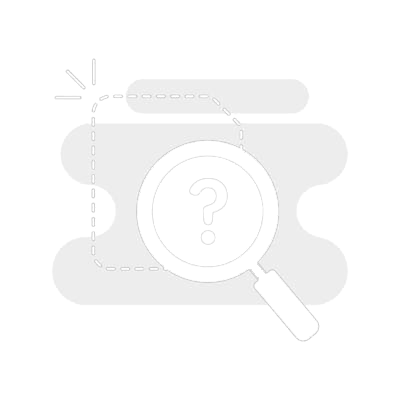
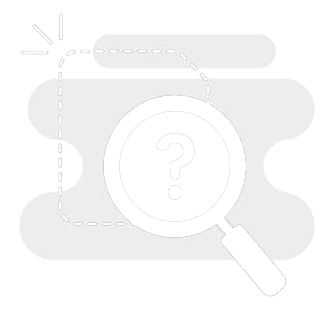
Placeholder image size adjusted

diff --git a/lib/pages/home_page.dart b/lib/pages/home_page.dart
@@ -31,17 +31,15 @@ class _HomePageState extends State<HomePage> {
     return (numberOfCompletedTodos / todos.length);
   }
 
-
-  _getImageLink(String category){
-    if(category == "Design"){
+  _getImageLink(String category) {
+    if (category == "Design") {
       return "assets/design.png";
-    }else if(category == "Development"){
+    } else if (category == "Development") {
       return "assets/development.png";
-    }else{
+    } else {
       return "assets/research.png";
     }
   }
-
 
   @override
   Widget build(BuildContext context) {
@@ -93,49 +91,57 @@ class _HomePageState extends State<HomePage> {
                 ),
                 SizedBox(height: 10),
                 Expanded(
-                  child: todos.length == 0 ? Column(
-                    children: [
-                      Image.asset("assets/placeholder.png" ,color: greyColor.withOpacity(0.3)),
-                      Text("No Task found",
-                      style: TextStyle(fontSize: 25, color: greyColor),
-                      )
-                    ],
-                  ) : ListView.builder(
-                      itemCount: todos.length,
-                      itemBuilder: (context, index) {
-                        return Padding(
-                          padding: EdgeInsets.symmetric(
-                              horizontal: screenWidth * 0.05, vertical: 16),
-                          child: TodoCard(
-                            title: todos[index].title,
-                            endTime: todos[index].endTime,
-                            isCompleted: todos[index].isCompleted,
-                            startTime: todos[index].startTime,
-                            imagePath: _getImageLink(todos[index].category),
-                            onTap: () async {
-                              final Todo todo = await Navigator.of(context)
-                                  .push(MaterialPageRoute(
-                                      builder: (context) => UpdateTodo(
-                                            todo: todos[index],
-                                          )));
-                              if (todo.title == "DELETETODO") {
-                                setState(() {
-                                  todos.removeAt(index);
-                                });
-                              } else if (todo.title != "") {
-                                setState(() {
-                                  todos[index] = todo;
-                                });
-                              }
-                            },
-                            onValueChanged: (value) {
-                              setState(() {
-                                todos[index].isCompleted = value;
-                              });
-                            },
-                          ),
-                        );
-                      }),
+                  child: todos.length == 0
+                      ? Column(
+                          mainAxisAlignment: MainAxisAlignment.center,
+                          children: [
+                            Image.asset("assets/placeholder.png",
+                                color: greyColor.withOpacity(0.3),
+                                height: screenHeight * 0.3),
+                            Text(
+                              "No Task found",
+                              style: TextStyle(
+                                  fontSize: 20,
+                                  color: greyColor.withOpacity(0.5)),
+                            )
+                          ],
+                        )
+                      : ListView.builder(
+                          itemCount: todos.length,
+                          itemBuilder: (context, index) {
+                            return Padding(
+                              padding: EdgeInsets.symmetric(
+                                  horizontal: screenWidth * 0.05, vertical: 16),
+                              child: TodoCard(
+                                title: todos[index].title,
+                                endTime: todos[index].endTime,
+                                isCompleted: todos[index].isCompleted,
+                                startTime: todos[index].startTime,
+                                imagePath: _getImageLink(todos[index].category),
+                                onTap: () async {
+                                  final Todo todo = await Navigator.of(context)
+                                      .push(MaterialPageRoute(
+                                          builder: (context) => UpdateTodo(
+                                                todo: todos[index],
+                                              )));
+                                  if (todo.title == "DELETETODO") {
+                                    setState(() {
+                                      todos.removeAt(index);
+                                    });
+                                  } else if (todo.title != "") {
+                                    setState(() {
+                                      todos[index] = todo;
+                                    });
+                                  }
+                                },
+                                onValueChanged: (value) {
+                                  setState(() {
+                                    todos[index].isCompleted = value;
+                                  });
+                                },
+                              ),
+                            );
+                          }),
                 ),
               ],
             ),
